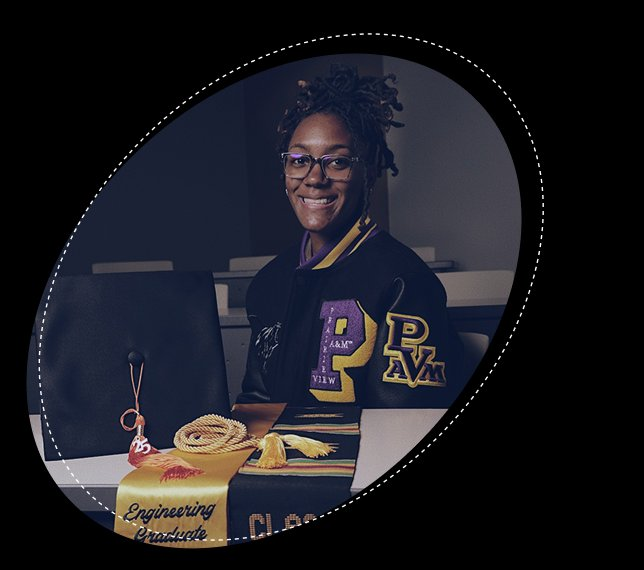
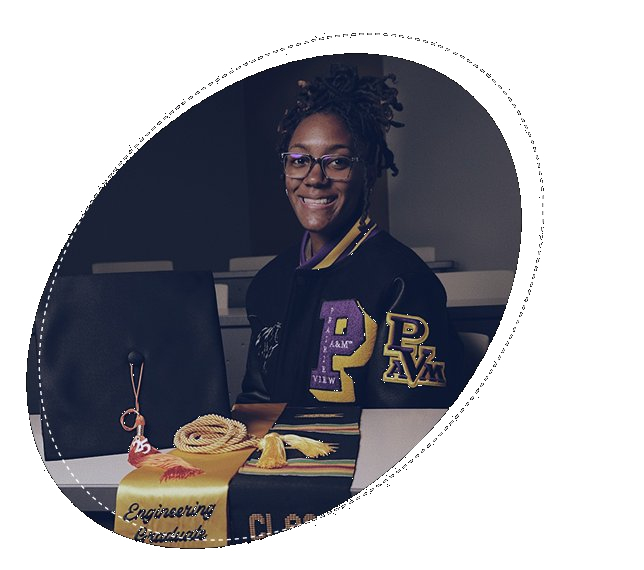
Update

diff --git a/css/about.css b/css/about.css
@@ -611,22 +611,16 @@ body{
 
 .about__portrait{
   width: clamp(365px, 38vw, 520px);
-  aspect-ratio: 1 / 1;
-  border-radius: 999px;
-  overflow: hidden;
 }
 
 .about__portrait picture{
   display: block;
   width: 100%;
-  height: 100%;
 }
 
 .about__portrait img{
   width: 100%;
-  height: 100%;
-  object-fit: cover;
-  object-position: center top;
+  height: auto;
   display:block;
 }
 
